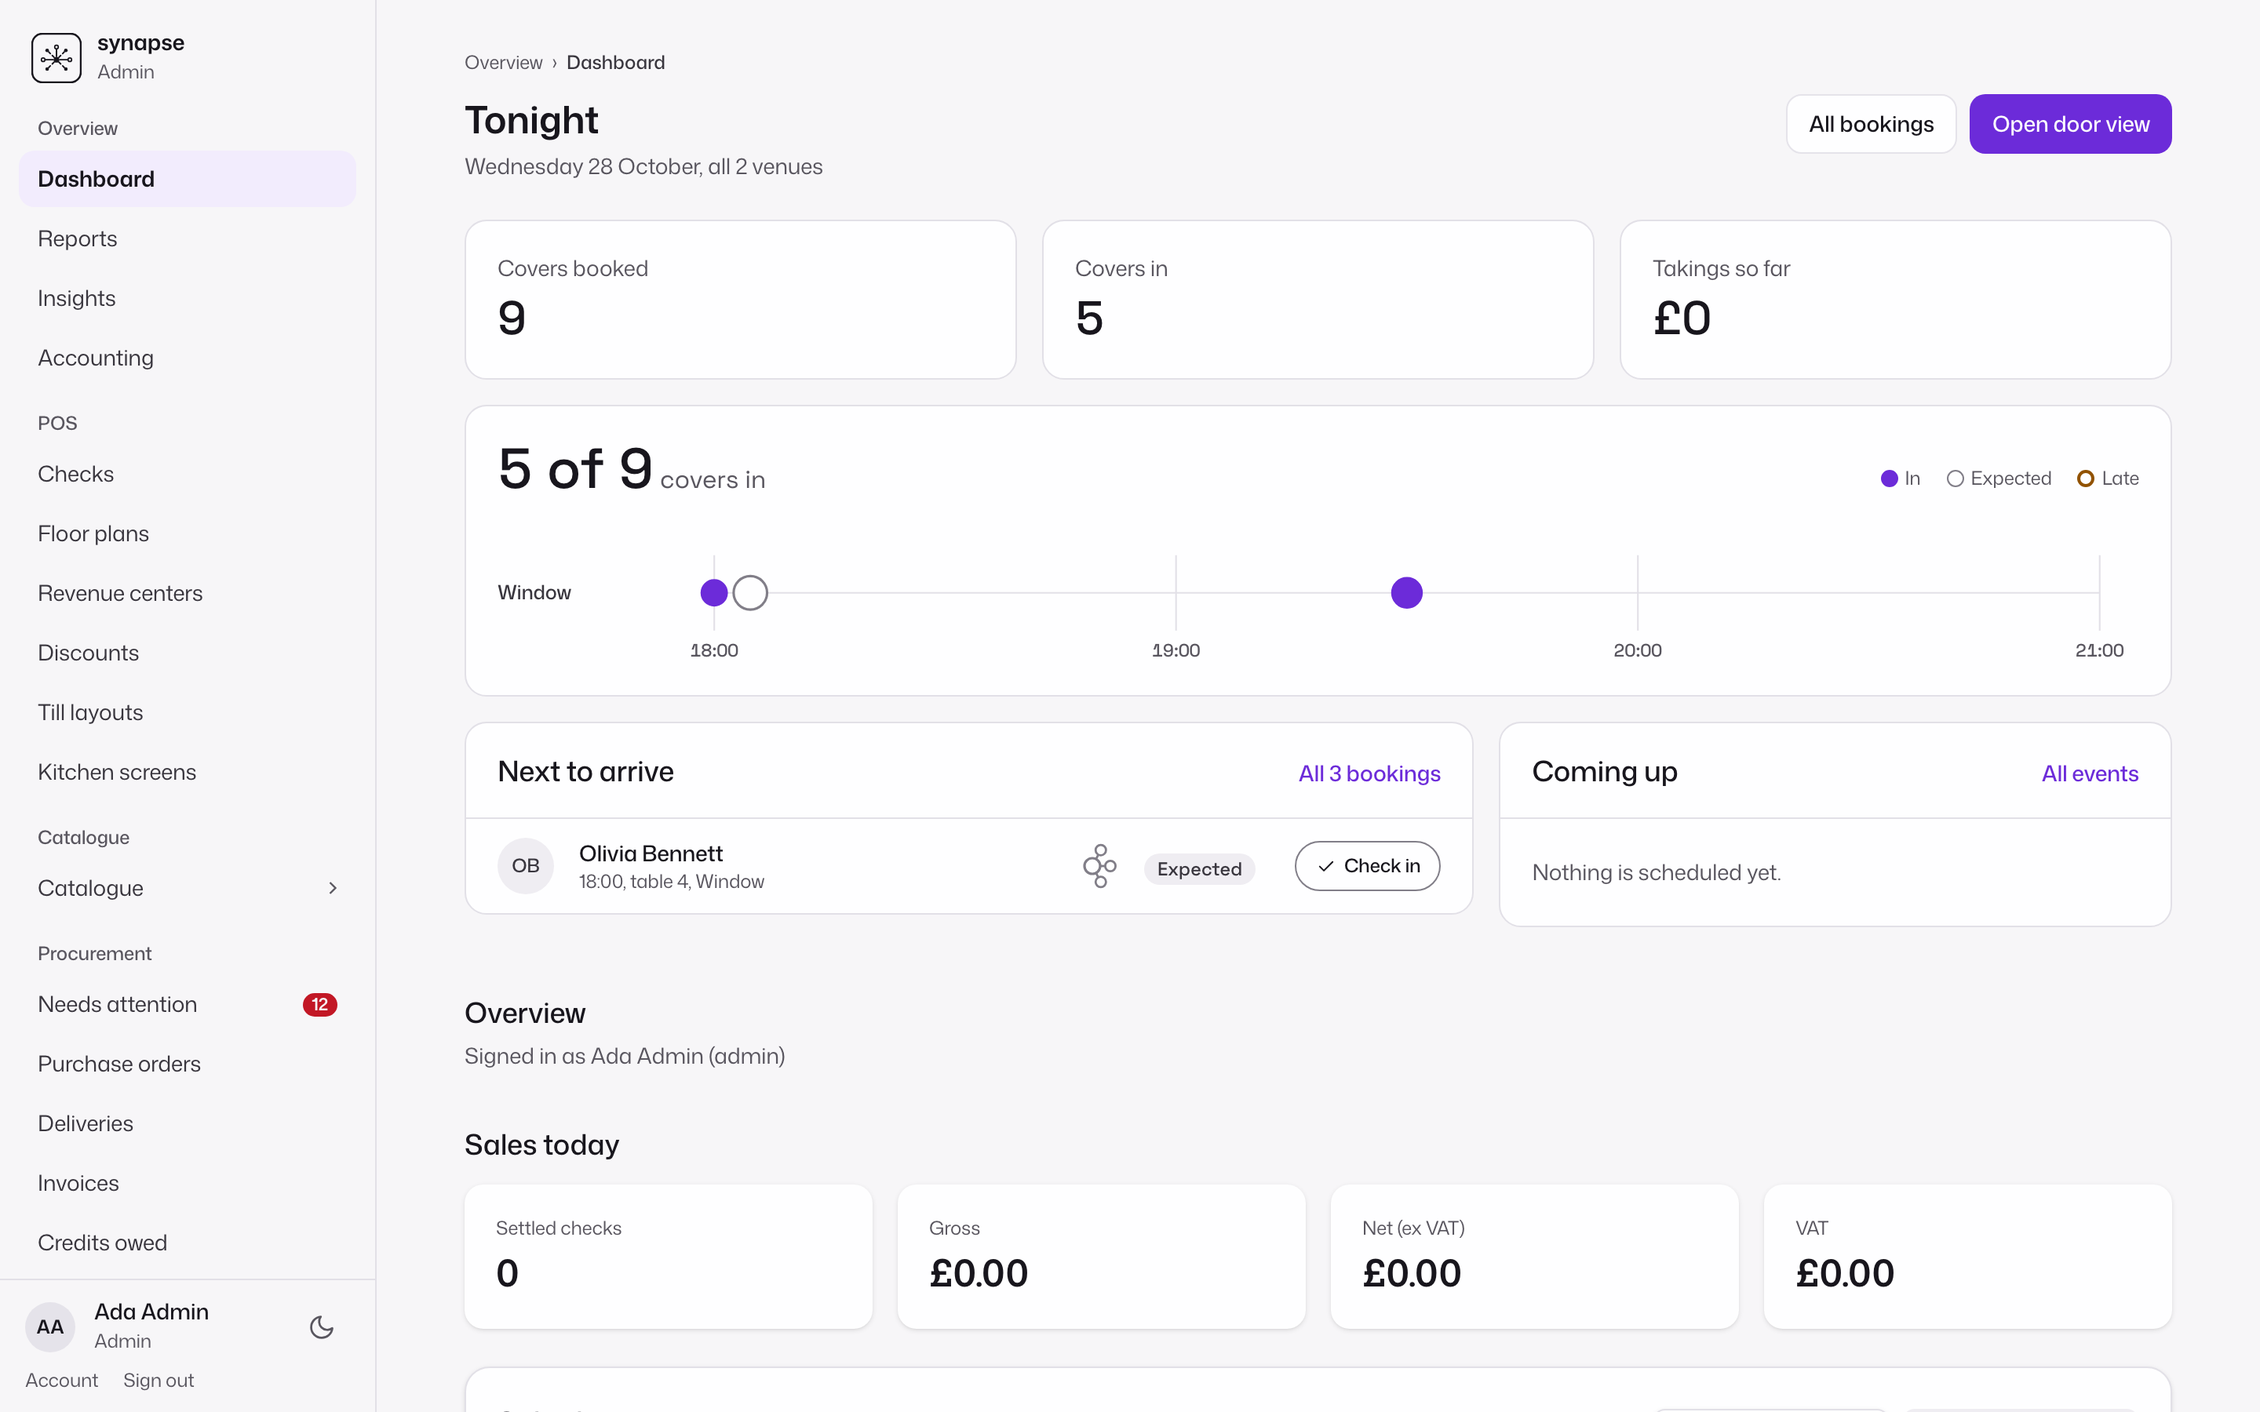
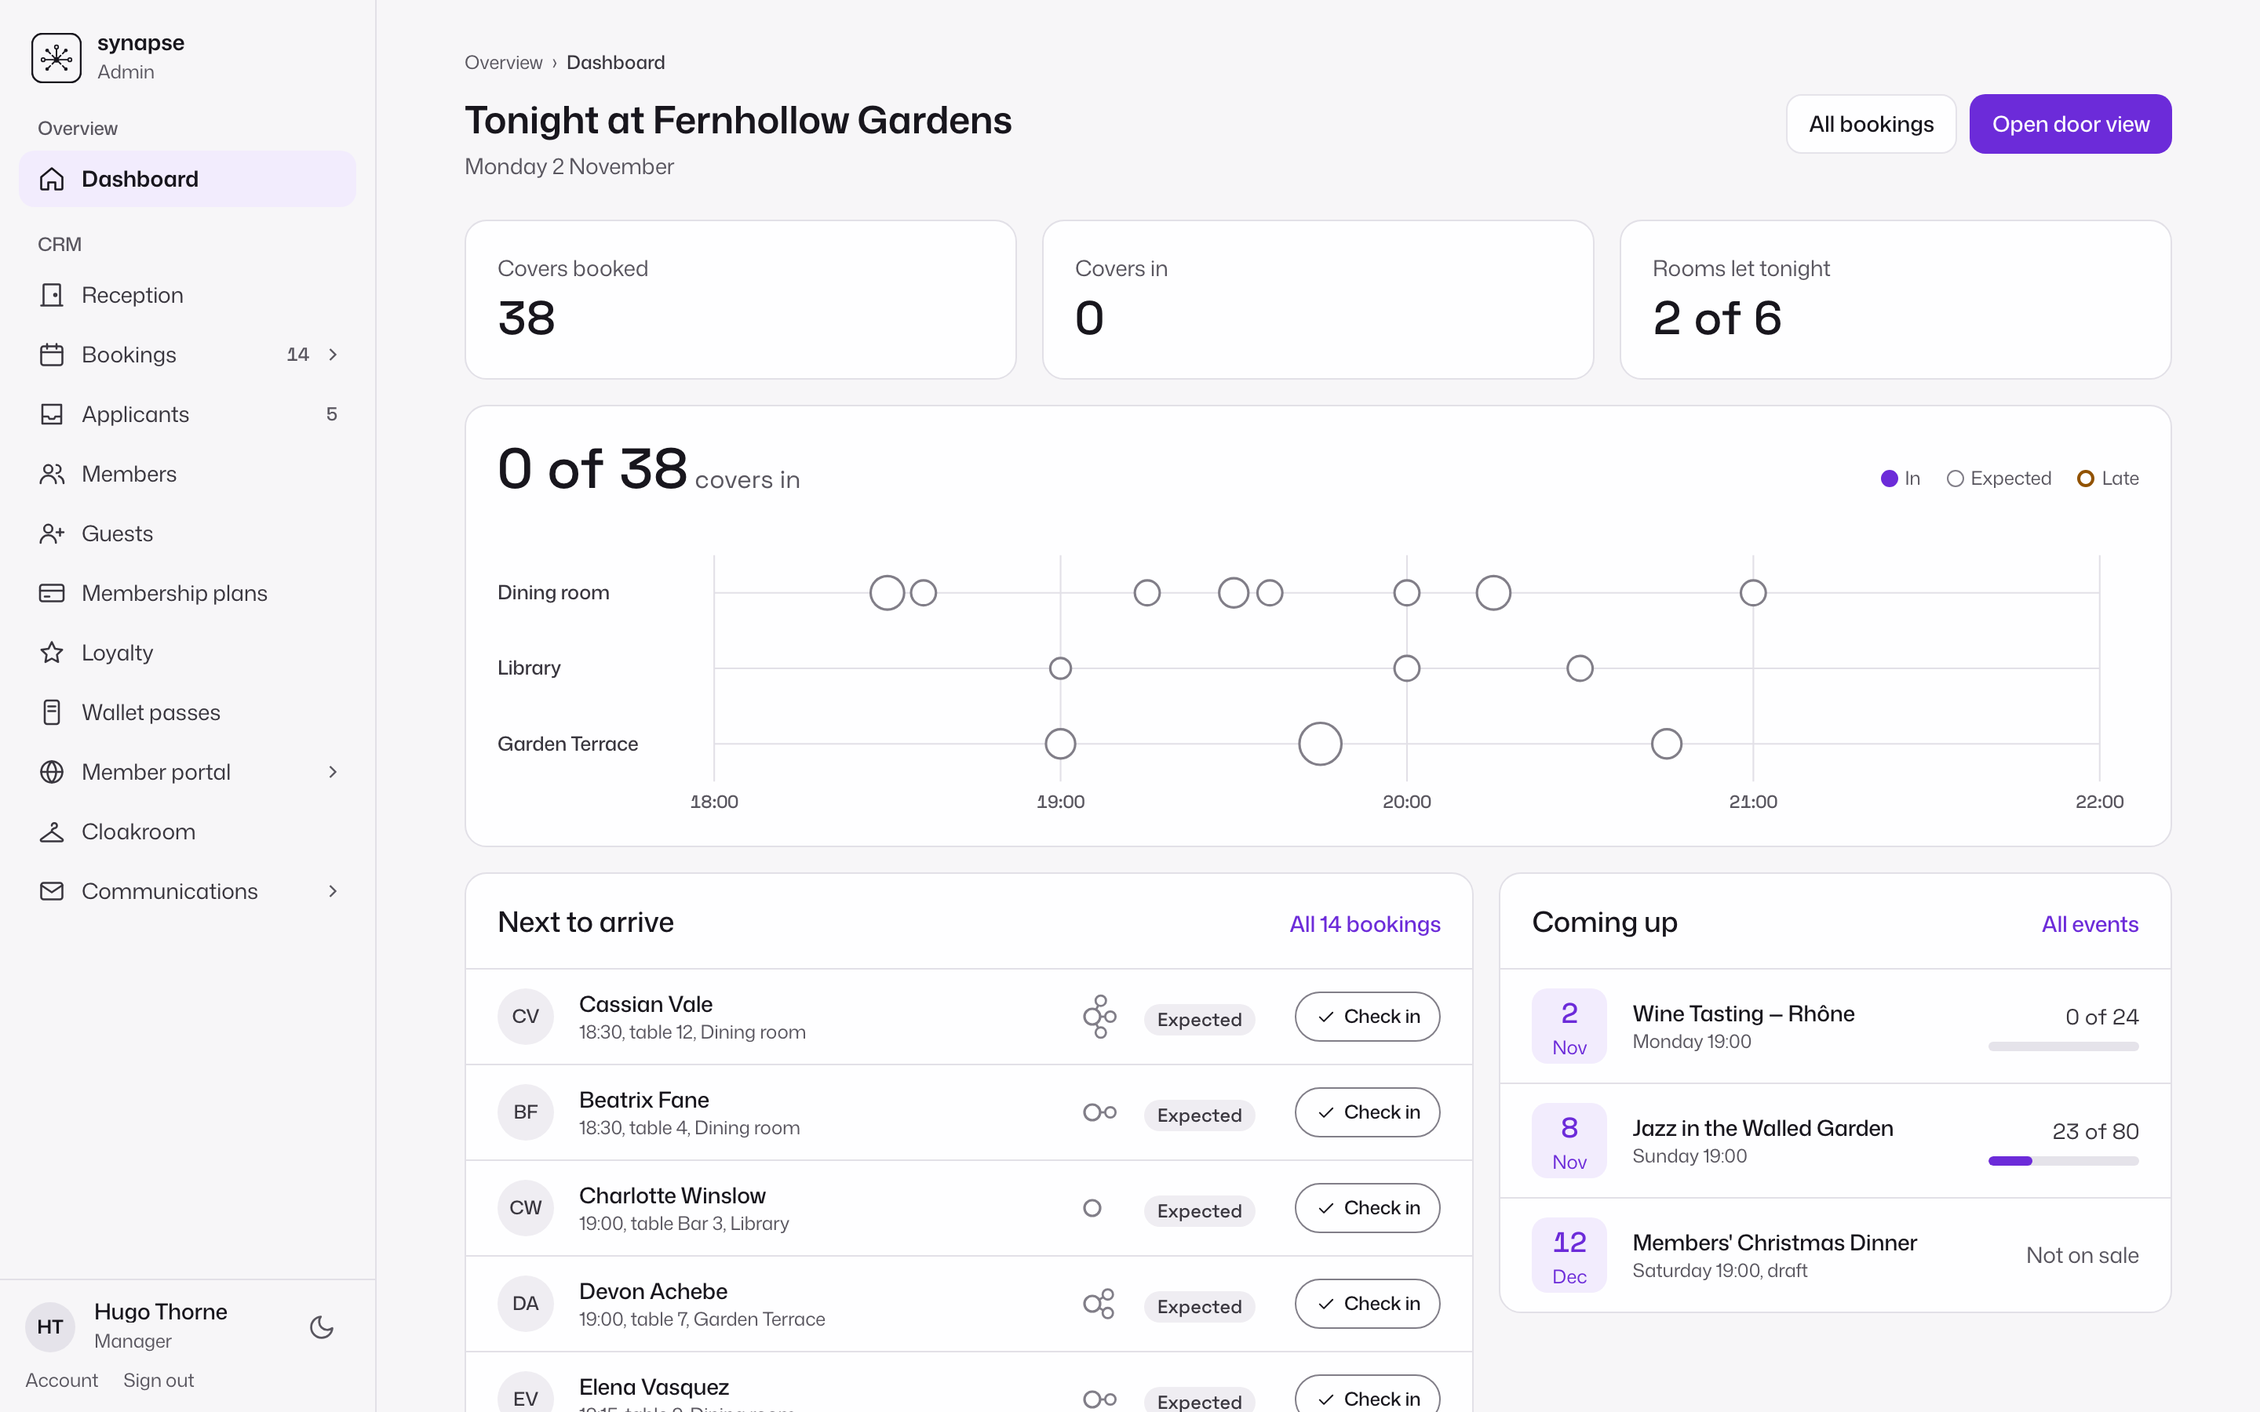
Hero on the real dashboard, light and dark, and a What's new section of real screens
The hero's picture is the demo club's dashboard captured light and dark,
the dark one wiping slowly across the light one, as in the November
LinkedIn update. Under it a What's new section carries that update's
five headline screens (the new UI, event ticketing, the portal on
desktop and phone, rooms, the door) and its also-shipped list. The live
till and floor plan return to Watch a service run, and the system map
takes a section of its own after them. The members section shows the
new phone captures of the portal.

diff --git a/src/app/page.tsx b/src/app/page.tsx
@@ -143,10 +143,30 @@ const FEATURES = [
 
 // Reasons to scroll, as links: the first screen says the page is long and what is on it.
 const HERO_LINKS = [
+  { label: "What shipped in November", href: "#new" },
   { label: "10 modules on one record", href: "#products" },
   { label: "The member portal, on a phone", href: "#members" },
   { label: "Purchasing and the books", href: "#backoffice" },
-  { label: "What shipped this fortnight", href: "#roadmap" },
+];
+
+// The November update, as on LinkedIn: the headline screens, then the rest as a list.
+const WHATS_NEW: { title: string; desc: string; next?: string; src: string; alt: string; phone?: { src: string; alt: string } }[] = [
+  { title: "A new UI, light and dark", desc: "Every admin screen is rebuilt on one design system: light for the office, dark for the door at midnight. The dashboard opens on tonight, with covers booked, who is arriving and rooms let.", src: "/screenshots/dashboard-dark.png", alt: "synapse admin in dark mode — tonight at Fernhollow Gardens, with covers, arrivals and rooms let" },
+  { title: "Ticketing for events", desc: "Ticket tiers: early bird, members only, a garden table for four. Hidden tiers behind unlock codes, and live sales, takings and check-ins for every event. Members buy from the portal; staff add attendees from admin.", next: "a front-of-house event-door screen that reads QR tickets in a second and shows the queue against capacity.", src: "/screenshots/event-tickets.png", alt: "synapse admin — Jazz in the Walled Garden: places sold, takings, three ticket tiers and the guest list" },
+  { title: "A member portal, on desktop and mobile", desc: "Every club gets its own branded portal. Prospective members apply online with their plan, photo, proposers and card. Members sign in with an email code to see what is on, book tables, events and rooms, bring a guest and manage their account.", src: "/screenshots/portal-desktop-book-table.png", alt: "synapse member portal on a desktop — booking a table at Fernhollow Gardens", phone: { src: "/screenshots/portal-phone-book-event.png", alt: "synapse member portal on a phone — buying event tickets from a tier" } },
+  { title: "Room bookings, with a SynXis connector", desc: "Overnight, day-use and hourly rooms on one reservation spine, with availability by night and arrivals, in-house and departures at a glance. SynXis two-way sync is built and waits on a partner agreement.", src: "/screenshots/rooms.png", alt: "synapse admin — rooms left per night per room type, with arriving, in-house and due-out lists" },
+  { title: "The door", desc: "Tonight's arrivals on a timeline by room, check-in person by person, allergies flagged, live on every device. Seated parties are never late, and the night line says what it shows.", src: "/screenshots/bookings-door.png", alt: "synapse admin — tonight's bookings as a timeline by room and a door view of each party" },
+];
+
+const ALSO_SHIPPED: { text: string; href?: string }[] = [
+  { text: "Applicant pipeline: a board with ratings, proposers and approval straight into membership", href: "#members" },
+  { text: "Self-service: a club signs up, follows guided setup and connects card payments through Stripe Connect", href: "#members" },
+  { text: "Booking messages: confirmations and reminders for tables, events and rooms, sent from the club's own domain", href: "#marketing" },
+  { text: "Member records: visits, bookings, house account and spend on one page, plus an audited CSV export" },
+  { text: "Billing: pro-rata, freezes, credit notes and Direct Debit house accounts", href: "#billing" },
+  { text: "Wallet passes delivered by WhatsApp, SMS or email", href: "#passes" },
+  { text: "Accounting: daily journals to Xero and QuickBooks", href: "#backoffice" },
+  { text: "A help centre, live at gosynapse.net/docs", href: "/docs/" },
 ];
 
 const BACKOFFICE_POINTS = [
@@ -602,22 +622,66 @@ export default function Home() {
             </ul>
           </div>
           <div className="lg:col-span-7">
-            <div className="grid items-start gap-4 sm:grid-cols-2">
-              <Reveal>
-                <Frame>
-                  <TillLive />
-                </Frame>
-              </Reveal>
-              <Reveal delayMs={120} className="hidden sm:block">
-                <Frame>
-                  <FloorPlanLive />
-                </Frame>
-              </Reveal>
-            </div>
+            <Reveal>
+              <ThemeWipe />
+            </Reveal>
             <p className="mt-3 text-sm text-[var(--muted)]">
-              A check ringing up on the till and the room filling on the floor plan, live, on one record.
-              Every illustration on this page runs on the seed data a demo club ships with.
+              The admin on a Monday evening at Fernhollow Gardens, a demo club: 38 covers booked, who is
+              next to arrive, rooms let tonight. Light for the office, dark for the door, one screen.
             </p>
+          </div>
+        </div>
+      </section>
+
+      {/* what's new — real screens from the demo, mirroring the November update */}
+      <section id="new" className="border-t border-[var(--border)] bg-[var(--surface-2)]">
+        <div className="mx-auto max-w-6xl px-5 py-24">
+          <div className="max-w-2xl">
+            <Eyebrow>What&apos;s new, November 2026</Eyebrow>
+            <h2 className="text-4xl font-bold tracking-[-0.02em] sm:text-5xl">Sixteen releases since 23 October</h2>
+            <p className="mt-5 text-lg text-[var(--muted)]">
+              synapse now covers the whole members&apos; club, from the application form to the room
+              key. Every screen below is the demo club, captured this week.
+            </p>
+          </div>
+          <div className="mt-14 space-y-20">
+            {WHATS_NEW.map((w, i) => (
+              <div key={w.title} className="grid items-center gap-8 lg:grid-cols-12">
+                <div className={`lg:col-span-4 ${i % 2 ? "lg:order-2" : ""}`}>
+                  <p className="text-xs font-semibold uppercase tracking-[0.14em] text-[var(--brand-strong)]">{String(i + 1).padStart(2, "0")}</p>
+                  <h3 className="mt-2 text-2xl font-bold tracking-tight sm:text-3xl">{w.title}</h3>
+                  <p className="mt-3 text-base leading-relaxed text-[var(--muted)]">{w.desc}</p>
+                  {w.next && <p className="mt-3 text-sm text-[var(--muted)]"><span className="font-semibold text-[var(--ink)]">Next: </span>{w.next}</p>}
+                </div>
+                <div className={`lg:col-span-8 ${i % 2 ? "lg:order-1" : ""}`}>
+                  <Reveal>
+                    {w.phone ? (
+                      <div className="flex items-end gap-4">
+                        <div className="min-w-0 flex-1">
+                          <Shot src={w.src} alt={w.alt} w={2880} h={1800} />
+                        </div>
+                        <div className="hidden w-[150px] flex-none sm:block">
+                          <PhoneShot src={w.phone.src} alt={w.phone.alt} w={1170} h={2532} />
+                        </div>
+                      </div>
+                    ) : (
+                      <Shot src={w.src} alt={w.alt} w={2880} h={1800} />
+                    )}
+                  </Reveal>
+                </div>
+              </div>
+            ))}
+          </div>
+          <div className="mt-20 rounded-2xl border border-[var(--border)] bg-white p-6 sm:p-8">
+            <h3 className="font-bold tracking-tight">Also shipped</h3>
+            <ul className="mt-4 grid gap-x-8 gap-y-2 text-sm text-[var(--muted)] sm:grid-cols-2">
+              {ALSO_SHIPPED.map((a) => (
+                <li key={a.text} className="flex gap-2">
+                  <span className="mt-2 h-1.5 w-1.5 flex-none rounded-full bg-[var(--brand)]" aria-hidden />
+                  <span>{a.href ? <a href={a.href} className="text-[var(--ink)] underline decoration-[var(--border)] underline-offset-4 hover:decoration-[var(--brand)]">{a.text}</a> : a.text}</span>
+                </li>
+              ))}
+            </ul>
           </div>
         </div>
       </section>
@@ -826,19 +890,19 @@ export default function Home() {
           <div className="mx-auto mt-14 grid max-w-5xl gap-8 sm:grid-cols-3">
             <figure>
               <Reveal>
-                <PhoneShot src="/screenshots/portal-public.jpg" alt="synapse member portal — the club's sign-in screen: an email address and a six-digit code, no password" w={750} h={1624} />
+                <PhoneShot src="/screenshots/portal-phone-public.png" alt="synapse member portal — the club's public page before sign-in, with Apply and Member sign in" w={1170} h={2532} />
               </Reveal>
-              <figcaption className="mt-3 text-sm text-[var(--muted)]">Before sign-in: an email address, a six-digit code, no password. The public page behind it carries the houses and Apply.</figcaption>
+              <figcaption className="mt-3 text-sm text-[var(--muted)]">Before sign-in: the club&apos;s public page, with Apply and Member sign in. Signing in is an email address and a six-digit code, no password.</figcaption>
             </figure>
             <figure>
               <Reveal delayMs={80}>
-                <PhoneShot src="/screenshots/portal-apply.jpg" alt="synapse member portal — the application form, step two of nine" w={750} h={1624} />
+                <PhoneShot src="/screenshots/portal-phone-apply.png" alt="synapse member portal — the application form" w={1170} h={2532} />
               </Reveal>
               <figcaption className="mt-3 text-sm text-[var(--muted)]">Applying: the house, then the membership and its fees, then the questions you composed. Progress is saved and resumable from a link.</figcaption>
             </figure>
             <figure>
               <Reveal delayMs={160}>
-                <PhoneShot src="/screenshots/portal-home.jpg" alt="synapse member portal — Home after sign-in: the next booking, what's on, news from the house, and the Home, Calendar and Me tabs" w={738} h={1598} />
+                <PhoneShot src="/screenshots/portal-phone-home.png" alt="synapse member portal — Home after sign-in: notices, the next booking, what's on and news from the house" w={1170} h={2532} />
               </Reveal>
               <figcaption className="mt-3 text-sm text-[var(--muted)]">Signed in: Home, then Book, Calendar and Me, with the wallet pass and access card on a phone.</figcaption>
             </figure>
@@ -1111,6 +1175,37 @@ export default function Home() {
 
       {/* live illustrations */}
       <section id="live" className="border-t border-[var(--border)]">
+        <div className="mx-auto max-w-6xl px-5 py-28">
+          <div className="max-w-2xl">
+            <Eyebrow>Live, not a slideshow</Eyebrow>
+            <h2 className="text-4xl font-bold tracking-[-0.02em] sm:text-5xl">Watch a service run</h2>
+            <p className="mt-5 text-lg text-[var(--muted)]">
+              The room filling up and a check being settled, on the same data your admin, tills and
+              front of house share, updating in real time.
+            </p>
+          </div>
+          <div className="mt-14 grid items-start gap-6 lg:grid-cols-2">
+            <figure>
+              <Reveal>
+                <Frame>
+                  <FloorPlanLive />
+                </Frame>
+              </Reveal>
+              <figcaption className="mt-3 text-sm text-[var(--muted)]">Floor plan: tables recolour with occupancy; covers and reservations update as guests are seated.</figcaption>
+            </figure>
+            <figure>
+              <Reveal delayMs={120}>
+                <Frame>
+                  <TillLive />
+                </Frame>
+              </Reveal>
+              <figcaption className="mt-3 text-sm text-[var(--muted)]">Till: items ring up, the member discount applies and the total recalculates, then payment settles card-present.</figcaption>
+            </figure>
+          </div>
+        </div>
+      </section>
+
+      <section id="map" className="border-t border-[var(--border)]">
         <div className="mx-auto max-w-6xl px-5 py-28">
           <div className="max-w-2xl">
             <Eyebrow>How it fits together</Eyebrow>
@@ -1539,6 +1634,23 @@ function Shot({ src, alt, w, h }: { src: string; alt: string; w: number; h: numb
 
 // Tablet bezel for the iPad till shots — the app is landscape-locked, so the
 // frame is landscape too, with a camera dot on the long edge like a real iPad.
+// The hero's picture: the same dashboard captured light and dark, the dark one
+// wiped across the light one by a slow CSS animation (static under reduced
+// motion). Both are real screens from the demo club.
+function ThemeWipe() {
+  return (
+    <figure className="theme-wipe overflow-hidden rounded-2xl border border-[var(--border)] bg-white shadow-[0_40px_100px_-40px_rgba(11,18,32,0.5)]">
+      <div className="relative" style={{ aspectRatio: "2880 / 1800" }}>
+        {/* eslint-disable-next-line @next/next/no-img-element */}
+        <img src="/screenshots/dashboard.png" alt="synapse admin, light — tonight at Fernhollow Gardens: covers booked, next to arrive, rooms let" width={2880} height={1800} className="absolute inset-0 block h-full w-full" />
+        {/* eslint-disable-next-line @next/next/no-img-element */}
+        <img src="/screenshots/dashboard-dark.png" alt="" aria-hidden width={2880} height={1800} className="theme-wipe-dark absolute inset-0 block h-full w-full" />
+        <span className="theme-wipe-line absolute inset-y-0 w-px bg-[var(--accent)]" aria-hidden />
+      </div>
+    </figure>
+  );
+}
+
 // Phone bezel for member-portal shots, captured at 375 × 812 on a 2× display.
 function PhoneShot({ src, alt, w, h }: { src: string; alt: string; w: number; h: number }) {
   return (

diff --git a/src/app/globals.css b/src/app/globals.css
@@ -255,3 +255,15 @@ th,
 @media (prefers-reduced-motion: reduce) {
   .sysmap .flow { display: none; }
 }
+
+/* Hero: the dark capture wipes across the light one. clip-path and left are
+   cheap to animate here (one image, no layout), and the wipe holds still under
+   reduced motion. */
+.theme-wipe-dark { clip-path: inset(0 0 0 58%); }
+.theme-wipe-line { left: 58%; box-shadow: 0 0 22px 4px rgba(155, 77, 255, 0.7); }
+@media (prefers-reduced-motion: no-preference) {
+  .theme-wipe-dark { animation: theme-wipe-clip 14s ease-in-out infinite alternate; }
+  .theme-wipe-line { animation: theme-wipe-left 14s ease-in-out infinite alternate; }
+}
+@keyframes theme-wipe-clip { from { clip-path: inset(0 0 0 72%); } to { clip-path: inset(0 0 0 38%); } }
+@keyframes theme-wipe-left { from { left: 72%; } to { left: 38%; } }
